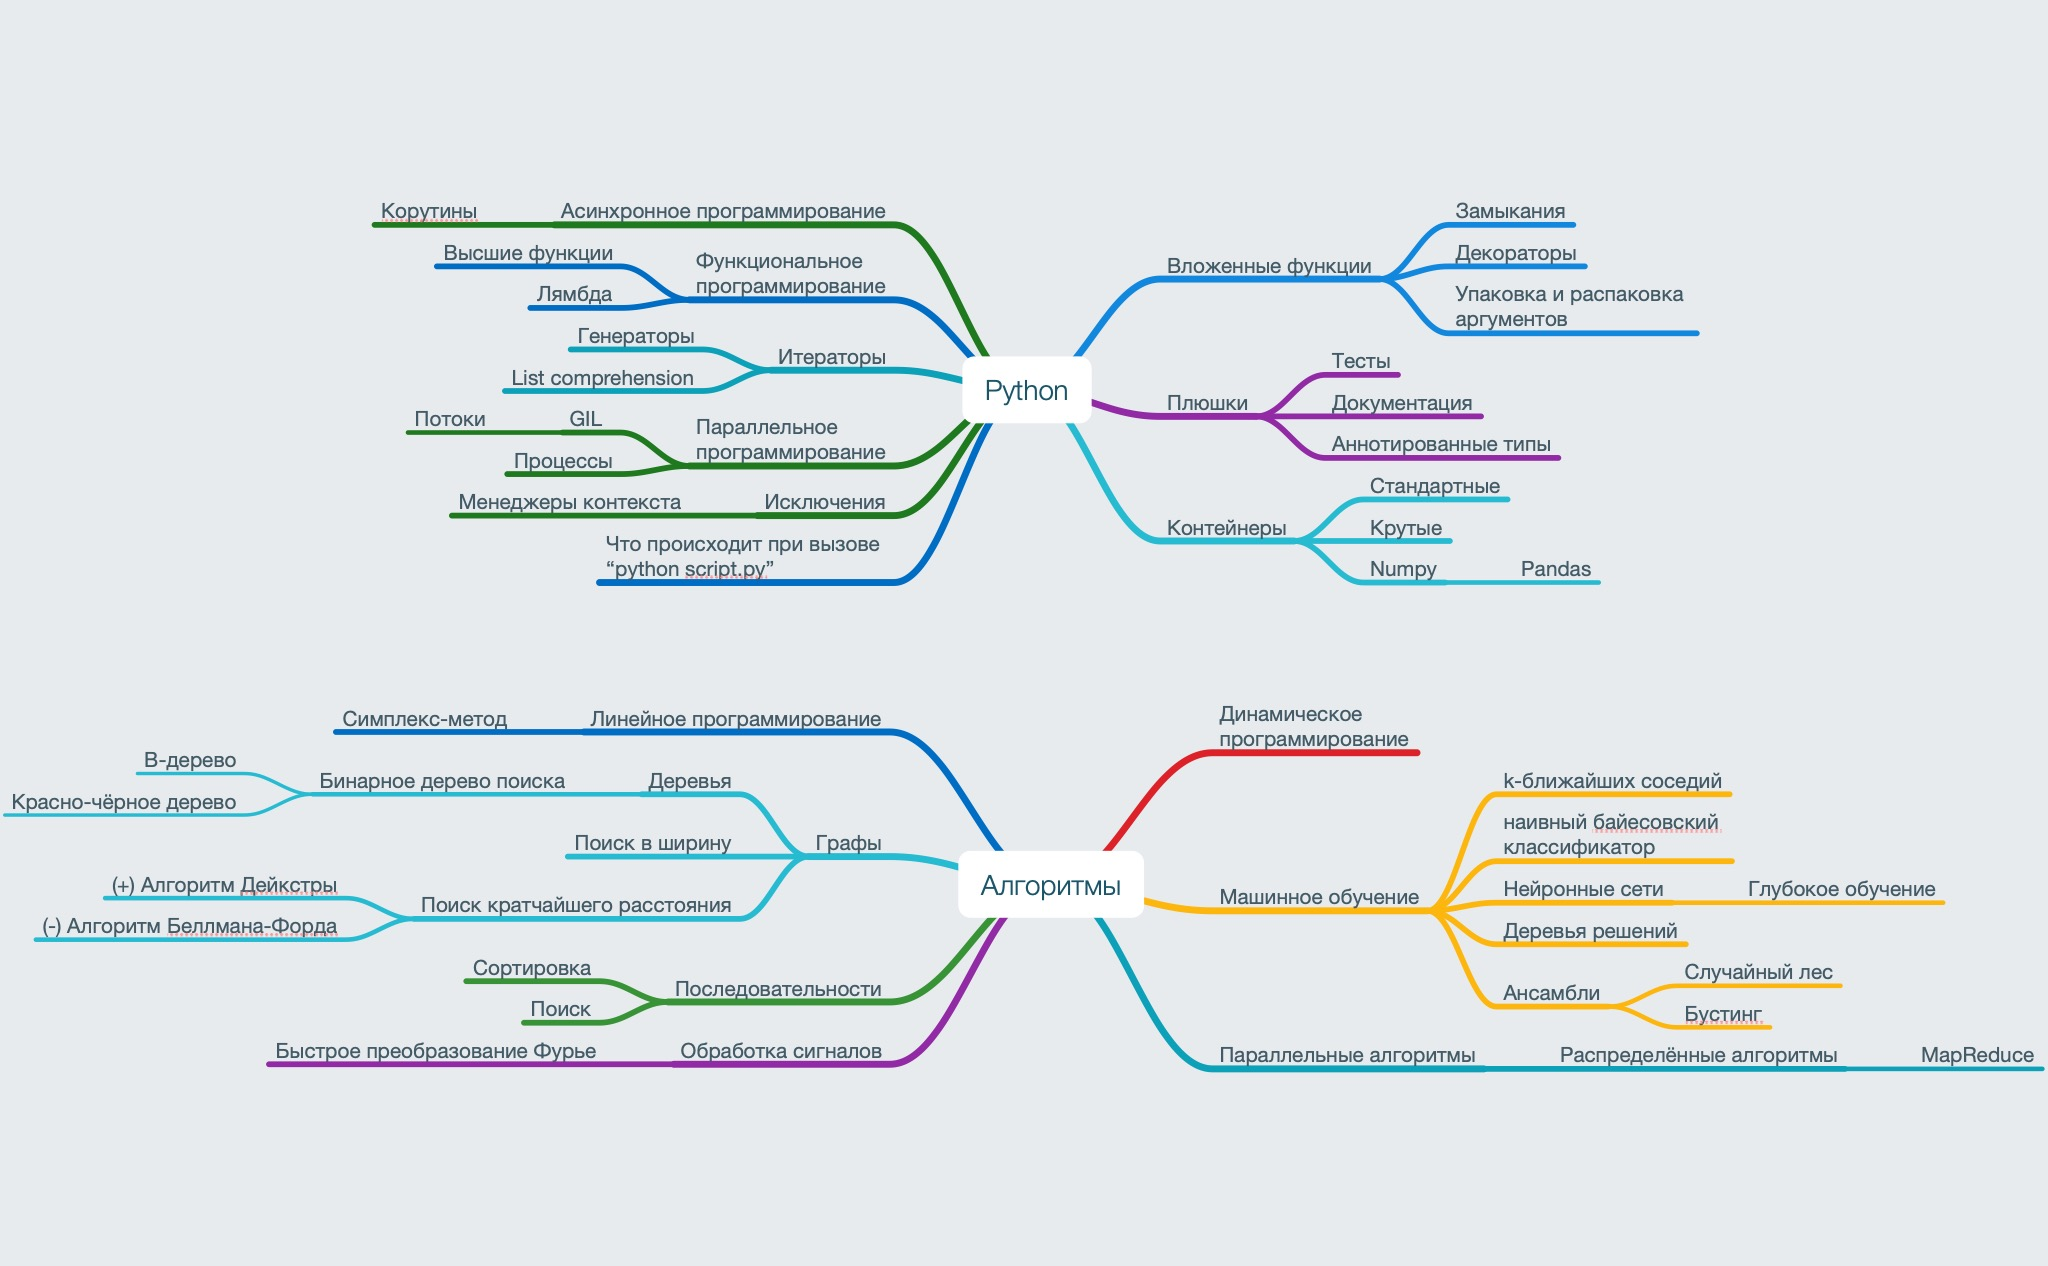
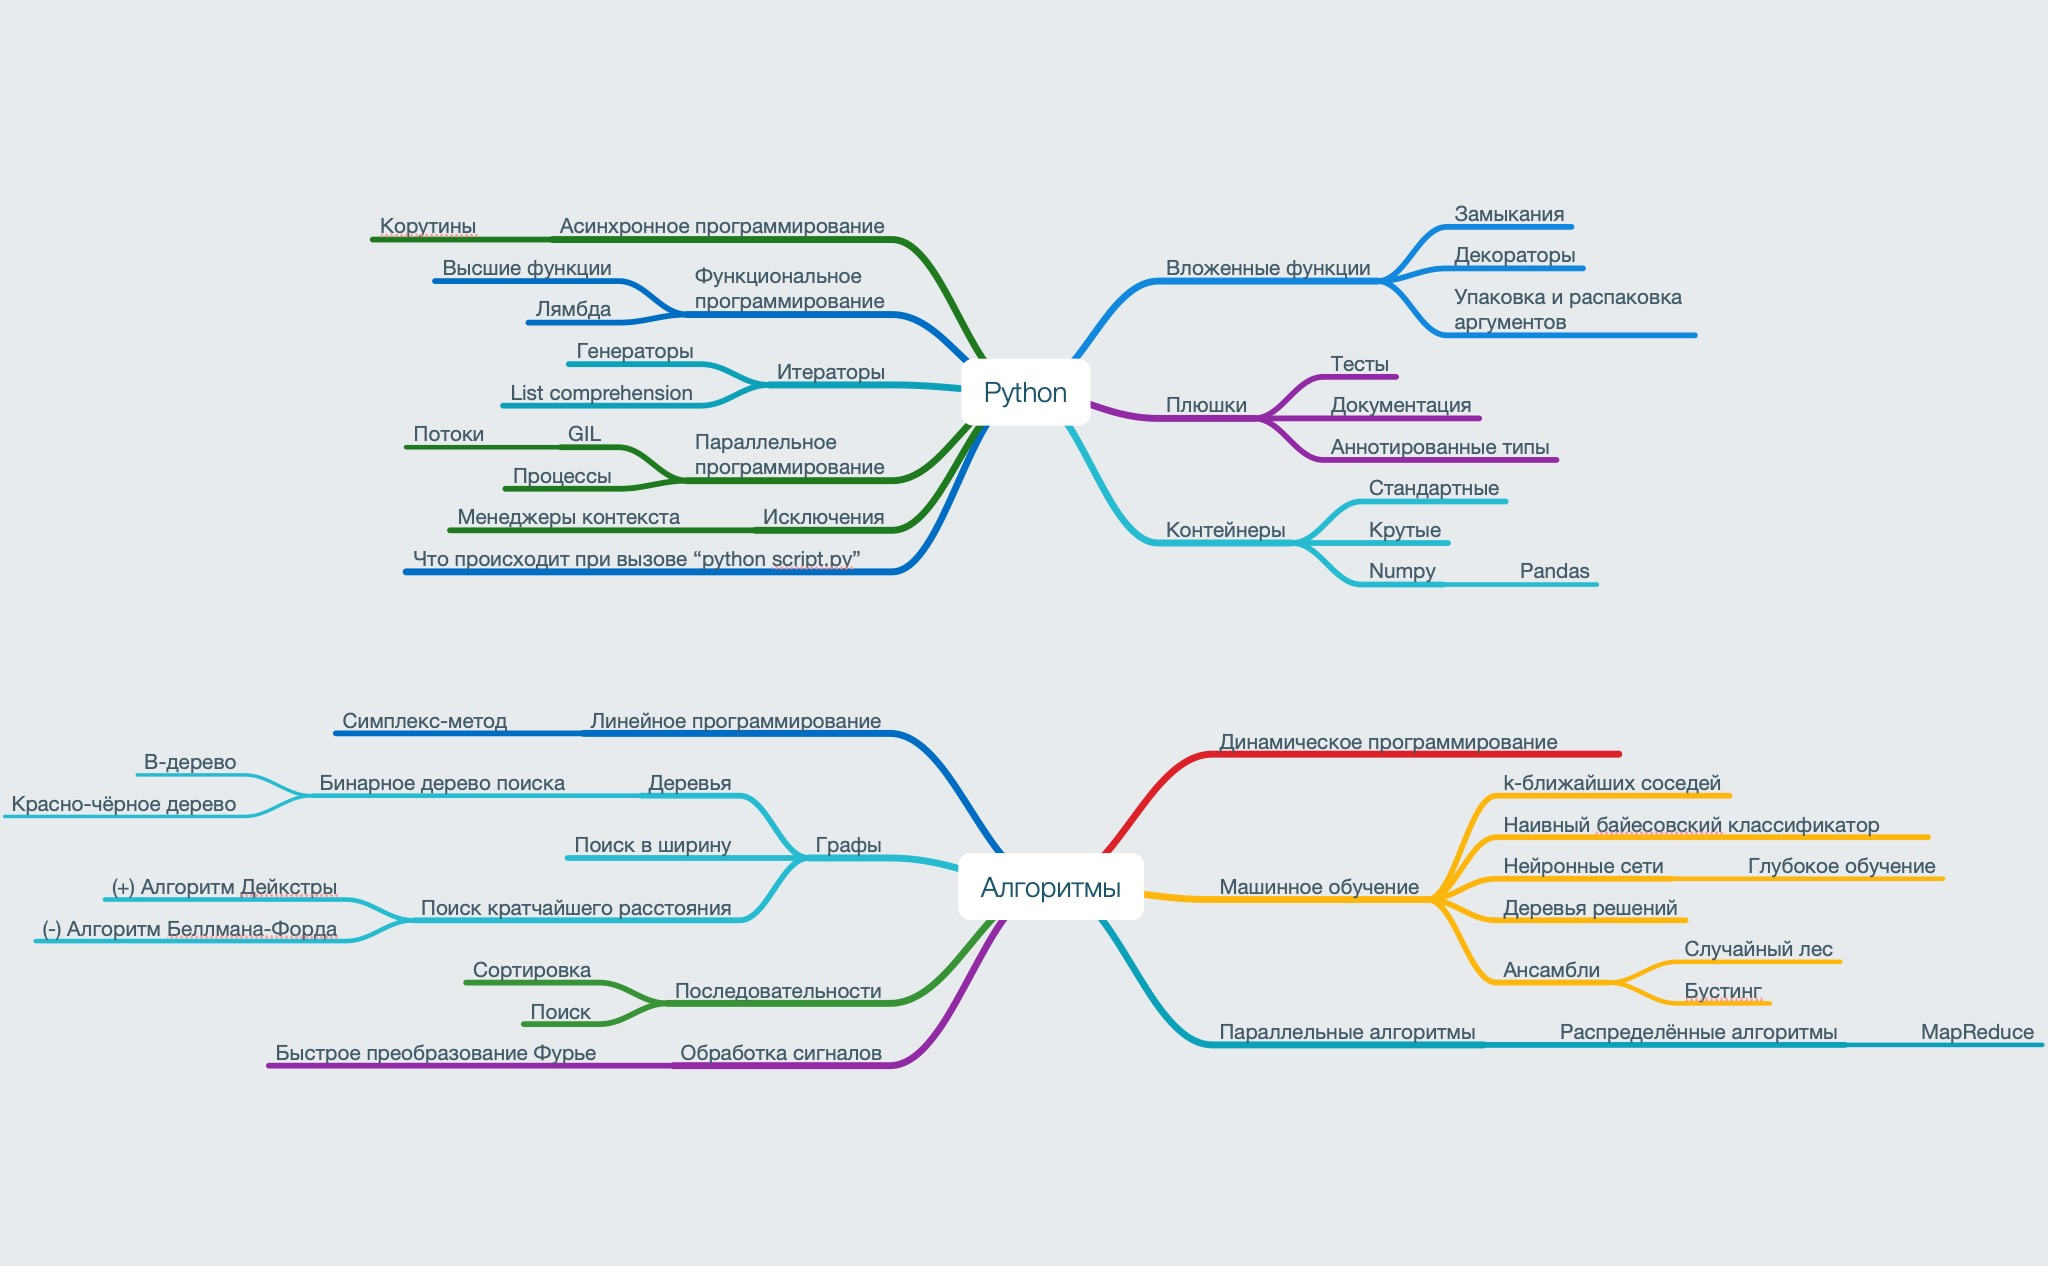
fix(syllabus): fix typos

diff --git a/syllabus/syllabus.mm b/syllabus/syllabus.mm
@@ -27,9 +27,9 @@
 <node ID="8BC8C82E-9962-489D-BABC-7269F31B2695" TEXT="&#1040;&#1089;&#1080;&#1085;&#1093;&#1088;&#1086;&#1085;&#1085;&#1086;&#1077; &#1087;&#1088;&#1086;&#1075;&#1088;&#1072;&#1084;&#1084;&#1080;&#1088;&#1086;&#1074;&#1072;&#1085;&#1080;&#1077;" COLOR="#435B66" POSITION="left" STYLE="fork"><edge COLOR="#1E791D" WIDTH="6" /><font NAME="HelveticaNeue" SIZE="18" /><node ID="AE547C02-1C89-4541-ADF3-5EDC9BA7C2FD" TEXT="&#1050;&#1086;&#1088;&#1091;&#1090;&#1080;&#1085;&#1099;" COLOR="#435B66" POSITION="left" STYLE="fork"><edge COLOR="#1E791D" WIDTH="5" /><font NAME="HelveticaNeue" SIZE="18" /></node>
 </node>
 </node>
-<node ID="05D69DCE-BC29-4180-AEC7-58F980B44084" BACKGROUND_COLOR="#FFFFFF" TEXT="&#1040;&#1083;&#1075;&#1086;&#1088;&#1080;&#1090;&#1084;&#1099;" COLOR="#1A5469" POSITION="right" STYLE="bubble"><edge COLOR="#1A5469" WIDTH="4" /><font NAME="HelveticaNeue-Light" SIZE="24" /><node ID="9CC39741-769A-455E-8AC3-24665DF8F012" TEXT="&#1044;&#1080;&#1085;&#1072;&#1084;&#1080;&#1095;&#1077;&#1089;&#1082;&#1086;&#1077; &#1087;&#1088;&#1086;&#1075;&#1088;&#1072;&#1084;&#1084;&#1080;&#1088;&#1086;&#1074;&#1072;&#1085;&#1080;&#1077;" COLOR="#435B66" POSITION="right" STYLE="fork"><edge COLOR="#DC2128" WIDTH="6" /><font NAME="HelveticaNeue" SIZE="18" /></node>
-<node ID="AD06E476-D7E3-465A-A7E0-AFA93149B640" TEXT="&#1052;&#1072;&#1096;&#1080;&#1085;&#1085;&#1086;&#1077; &#1086;&#1073;&#1091;&#1095;&#1077;&#1085;&#1080;&#1077;" COLOR="#435B66" POSITION="right" STYLE="fork"><edge COLOR="#FCB60D" WIDTH="6" /><font NAME="HelveticaNeue" SIZE="18" /><node ID="EC81CB6C-7601-455A-9A7B-2F9DD6FE8D14" TEXT="k-&#1073;&#1083;&#1080;&#1078;&#1072;&#1081;&#1096;&#1080;&#1093; &#1089;&#1086;&#1089;&#1077;&#1076;&#1080;&#1081;" COLOR="#435B66" POSITION="right" STYLE="fork"><edge COLOR="#FCB60D" WIDTH="5" /><font NAME="HelveticaNeue" SIZE="18" /></node>
-<node ID="5FCAD8BC-ED73-4FD1-B41C-1930D47FAF59" TEXT="&#1085;&#1072;&#1080;&#1074;&#1085;&#1099;&#1081; &#1073;&#1072;&#1081;&#1077;&#1089;&#1086;&#1074;&#1089;&#1082;&#1080;&#1081; &#1082;&#1083;&#1072;&#1089;&#1089;&#1080;&#1092;&#1080;&#1082;&#1072;&#1090;&#1086;&#1088;" COLOR="#435B66" POSITION="right" STYLE="fork"><edge COLOR="#FCB60D" WIDTH="5" /><font NAME="HelveticaNeue" SIZE="18" /></node>
+<node ID="05D69DCE-BC29-4180-AEC7-58F980B44084" BACKGROUND_COLOR="#FFFFFF" TEXT="&#1040;&#1083;&#1075;&#1086;&#1088;&#1080;&#1090;&#1084;&#1099;" COLOR="#1A5569" POSITION="right" STYLE="bubble"><edge COLOR="#1A5469" WIDTH="4" /><font NAME="HelveticaNeue-Light" SIZE="24" /><node ID="9CC39741-769A-455E-8AC3-24665DF8F012" TEXT="&#1044;&#1080;&#1085;&#1072;&#1084;&#1080;&#1095;&#1077;&#1089;&#1082;&#1086;&#1077; &#1087;&#1088;&#1086;&#1075;&#1088;&#1072;&#1084;&#1084;&#1080;&#1088;&#1086;&#1074;&#1072;&#1085;&#1080;&#1077;" COLOR="#435B66" POSITION="right" STYLE="fork"><edge COLOR="#DC2128" WIDTH="6" /><font NAME="HelveticaNeue" SIZE="18" /></node>
+<node ID="AD06E476-D7E3-465A-A7E0-AFA93149B640" TEXT="&#1052;&#1072;&#1096;&#1080;&#1085;&#1085;&#1086;&#1077; &#1086;&#1073;&#1091;&#1095;&#1077;&#1085;&#1080;&#1077;" COLOR="#435B66" POSITION="right" STYLE="fork"><edge COLOR="#FCB60D" WIDTH="6" /><font NAME="HelveticaNeue" SIZE="18" /><node ID="EC81CB6C-7601-455A-9A7B-2F9DD6FE8D14" TEXT="k-&#1073;&#1083;&#1080;&#1078;&#1072;&#1081;&#1096;&#1080;&#1093; &#1089;&#1086;&#1089;&#1077;&#1076;&#1077;&#1081;" COLOR="#435B66" POSITION="right" STYLE="fork"><edge COLOR="#FCB60D" WIDTH="5" /><font NAME="HelveticaNeue" SIZE="18" /></node>
+<node ID="5FCAD8BC-ED73-4FD1-B41C-1930D47FAF59" TEXT="&#1053;&#1072;&#1080;&#1074;&#1085;&#1099;&#1081; &#1073;&#1072;&#1081;&#1077;&#1089;&#1086;&#1074;&#1089;&#1082;&#1080;&#1081; &#1082;&#1083;&#1072;&#1089;&#1089;&#1080;&#1092;&#1080;&#1082;&#1072;&#1090;&#1086;&#1088;" COLOR="#435B66" POSITION="right" STYLE="fork"><edge COLOR="#FCB60D" WIDTH="5" /><font NAME="HelveticaNeue" SIZE="18" /></node>
 <node ID="24B04F0A-410E-4FAB-937F-5A12B4CDF8B9" TEXT="&#1053;&#1077;&#1081;&#1088;&#1086;&#1085;&#1085;&#1099;&#1077; &#1089;&#1077;&#1090;&#1080;" COLOR="#435B66" POSITION="right" STYLE="fork"><edge COLOR="#FCB60D" WIDTH="5" /><font NAME="HelveticaNeue" SIZE="18" /><node ID="0988B802-A969-482D-8ABA-DFD31357E057" TEXT="&#1043;&#1083;&#1091;&#1073;&#1086;&#1082;&#1086;&#1077; &#1086;&#1073;&#1091;&#1095;&#1077;&#1085;&#1080;&#1077;" COLOR="#435B66" POSITION="right" STYLE="fork"><edge COLOR="#FCB60D" WIDTH="4" /><font NAME="HelveticaNeue" SIZE="18" /></node>
 </node>
 <node ID="62373FD2-9779-4786-B24C-8F18F8E9E68F" TEXT="&#1044;&#1077;&#1088;&#1077;&#1074;&#1100;&#1103; &#1088;&#1077;&#1096;&#1077;&#1085;&#1080;&#1081;" COLOR="#435B66" POSITION="right" STYLE="fork"><edge COLOR="#FCB60D" WIDTH="5" /><font NAME="HelveticaNeue" SIZE="18" /></node>
